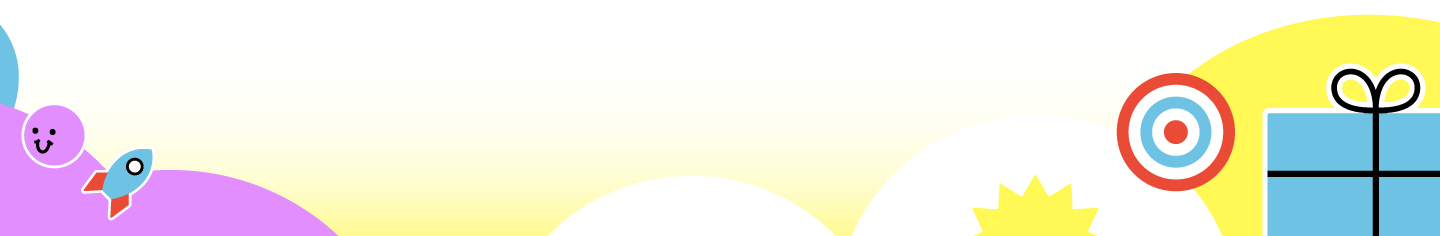
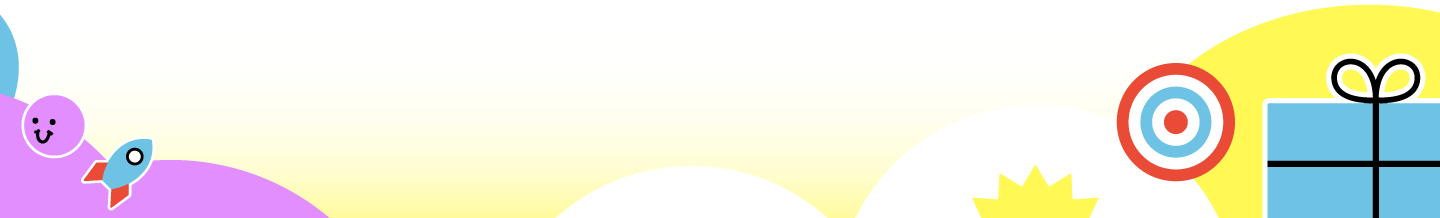
change header img

diff --git a/index.html b/index.html
@@ -9,7 +9,28 @@
     <link rel="stylesheet" href="styles.css">
     <meta name="viewport" content="width=device-width, initial-scale=1.0">
     <title>The New People Experience</title>
-    
+    <!-- Email JS -->
+    <script type="text/javascript" src="https://cdn.jsdelivr.net/npm/@emailjs/browser@3/dist/email.min.js"></script>
+    <script type="text/javascript"> 
+    (function(){
+        emailjs.init("user_Rdaa9pUbNIqZOIXsb5TbT");
+    })();
+
+    function sendMail() {
+        var formulario = document.getElementById("contactForm");
+        var params = {
+            from_name: formulario.elements.nombre.value,
+            empresa: formulario.elements.empresa.value,
+            campania: formulario.elements.campania.value,
+            email_id: formulario.elements.email.value
+        }
+            emailjs.send("service_9c2v0ot", "template_um4pg5a", params).then(function(response) {
+            console.log('SUCCESS!', response.status, response.text);
+            }, function(error) {
+            console.log('FAILED...', error);
+            });
+        }
+    </script>
 </head>
 
 <body>  
@@ -43,7 +64,7 @@
      <section id="home">
         <div class="header__1">
             <figure>
-                <img src="assets/flexibilidad.png" style="margin: 0 auto; padding-bottom: 1rem; width: 100%; max-width: 250px; height: auto;" width="250">
+                <img src="assets/flexibilidad.svg" style="margin: 0 auto; padding-bottom: 1rem; width: 100%; max-width: 300px; height: auto; padding-top: 1rem;" width="300">
             </figure>
            
             <div>
@@ -61,7 +82,7 @@
             </div>
            <a class="btn" href="#tendencias" style="text-decoration: none;"> <button">Ver tendencias</button> </a>
             <div>
-                <img src="assets/img-bottom-home.png"  style=" width: 100vw; height: auto; padding-top: 2.1rem; ">
+                <img src="assets/img-bottom-home.png"  style=" width: 100vw; height: auto; padding-top: 0rem; ">
             </div>
            
 
@@ -314,7 +335,7 @@
                         type="email" 
                          id="email"
                          required>
-                        <button type="submit" style="background-color: #feee29; color:#343a40; border-radius: 30px; margin-top: 2rem;">Enviar</button>
+                        <button type="submit" style="background-color: #feee29; color:#343a40; border-radius: 30px; margin-top: 2rem;" onclick="sendMail()">Enviar</button>
                         </div>
                     </form>
             </div>

diff --git a/styles.css b/styles.css
@@ -370,10 +370,10 @@ img {
 }
 
 .header__text{
-  max-width: 1000px;
+  max-width: 850px;
   text-align: center;
-  padding: 0.2rem 0rem 1rem 0rem;
-  font-size: 0.9rem;
+  padding: 1rem 0rem 1.8rem 0rem;
+  font-size: 1rem;
 }
 
 .tendencias__content{
@@ -384,7 +384,7 @@ img {
 /*   padding: 3rem 1rem 2rem 1rem;  */
   text-align: center; 
   gap: 5rem; 
-  height: 50vh;
+  height: 70vh;
   font-size: 0.9rem;
   line-height: 10px!important;
 }
@@ -393,9 +393,8 @@ img {
   display: flex; 
   justify-content: center; 
   align-items: center;
-  max-width: 100vw; 
   gap: 5rem; 
-  height: 100vh;
+  height: 80vh;
 
 }
 
@@ -561,8 +560,8 @@ padding-top: 2rem;
 }
 
 .btn-flexibilidad{
-  padding-bottom: 3rem!important;
-  padding-top: 2rem!important;
+  padding-bottom: 0rem!important;
+  padding-top: 3rem!important;
 }
 
 
@@ -603,6 +602,7 @@ padding-top: 2rem;
   }
 
   .box__2, .box__3, .box__4, .box__5, .box__6, .box__7, .box__8, .box__9, .box__10, .box__11, .box__12{
+    min-height: 300px;
     width: 100vw;
   } .imagen-cumple{
     height: 400px;
